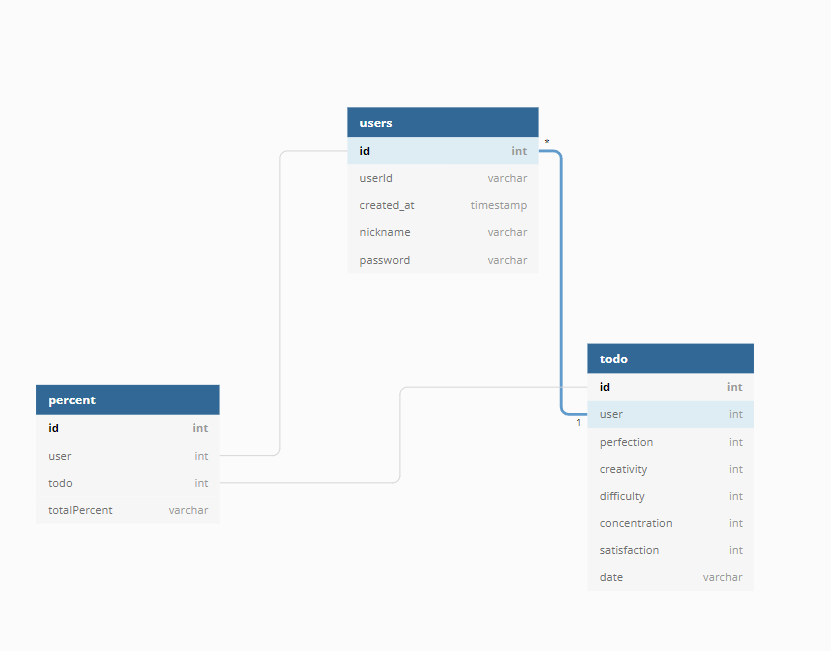
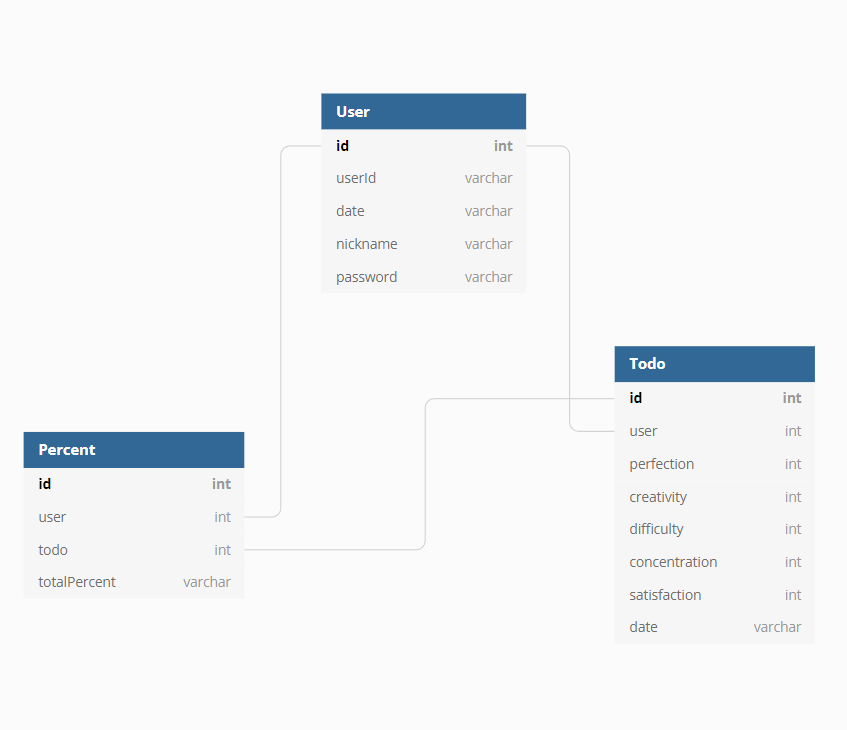
[style] db사진 변경

diff --git a/migrations/20211011094546-create-todos.js b/migrations/20211011094546-create-todos.js
@@ -6,16 +6,17 @@ module.exports = {
         allowNull: false,
         autoIncrement: true,
         primaryKey: true,
-        type: Sequelize.INTEGER
+        type: Sequelize.INTEGER,
       },
-      user:{
-        type:Sequelize.INTEGER,
+      user: {
+        type: Sequelize.INTEGER,
         allowNull: false,
-        ondDelte:'CASCADE',
-        references:{
-          model: "users",
-          key: "id",
-        }
+        //시퀄라이즈 관계설정
+        ondDelte: 'CASCADE',
+        references: {
+          model: 'users',
+          key: 'id',
+        },
       },
       perfection: {
         type: Sequelize.INTEGER,
@@ -45,5 +46,5 @@ module.exports = {
   },
   down: async (queryInterface, Sequelize) => {
     await queryInterface.dropTable('todos');
-  }
+  },
 };

diff --git a/routers/user.js b/routers/user.js
@@ -10,11 +10,17 @@ router.post('/signup', async (req, res, next) => {
       password,
     },
   });
-  if (!userExist) {
-    await users.create({ nickname, userId, password });
-    res.status(200).json({});
-  } else {
-    res.status(400).json({});
+  try {
+    if (!userExist) {
+      await users.create({ nickname, userId, password });
+      res.status(200).json({});
+    } else if (userExist) {
+      res.status(400).json({
+        errorMessage: '중복아이디입니다.',
+      });
+    }
+  } catch (err) {
+    console.error(err);
   }
 });
 
